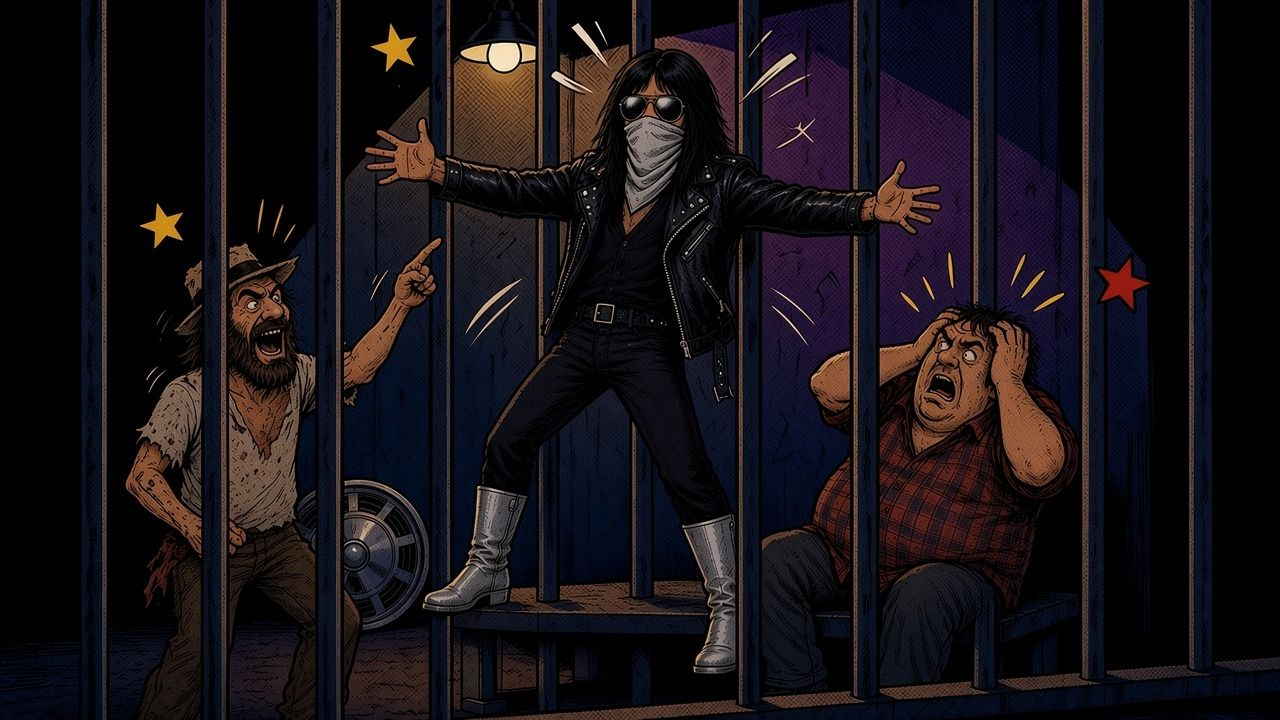
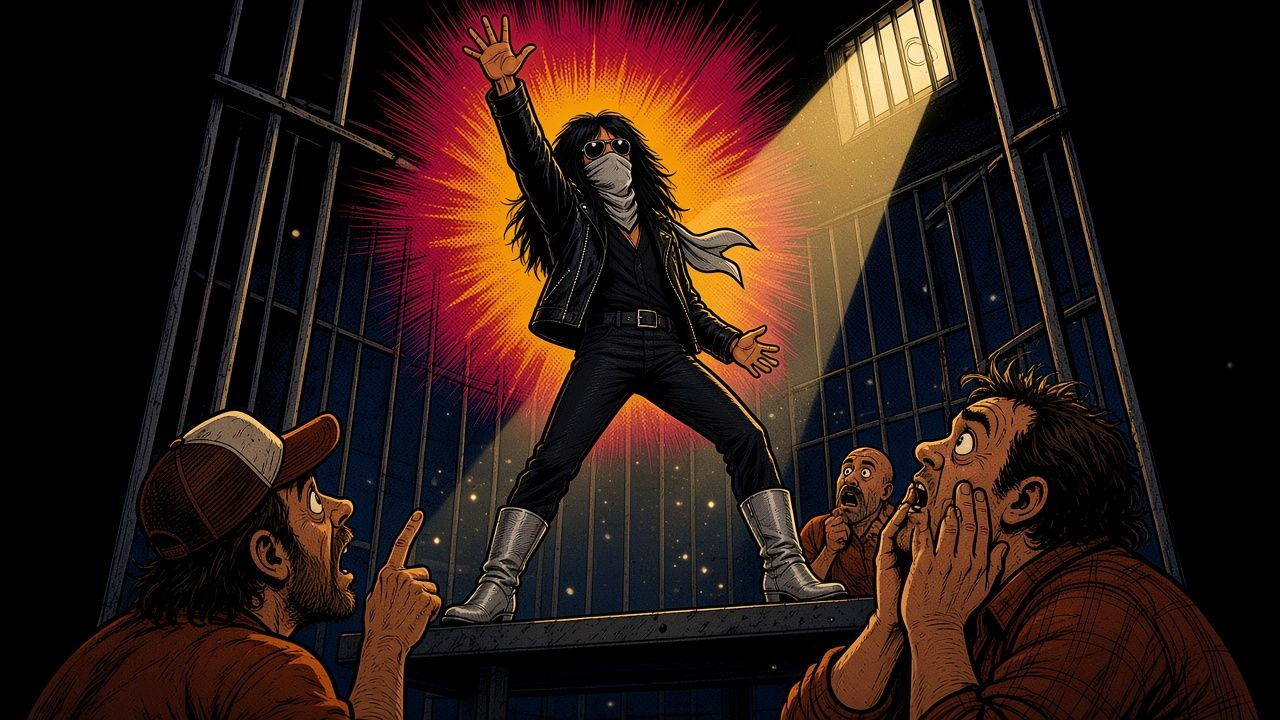
Issue #2 image 14: showstopper cell scene (rocker centre-stage in a spotlight, bars as frame, awed cellmates), two short bubbles + one mini caption, TMZ quote moved to the end page, slow zoom-in, mobile bubbles stacked right

diff --git a/preview-wy4u7thzbj5o/delorean/story.js b/preview-wy4u7thzbj5o/delorean/story.js
@@ -2,7 +2,7 @@
    Panel: img, focus (portrait crop x), kb (Ken Burns: in|out|l|r|up|dn), spread (full-bleed big moment), buzz (vibration ms on arrival).
    Bits: cap (narration), say (invented comic dialogue, no name), quote (real, attributed), sfx. acev:true = "Ace's version" tag.
    pos: tl tr bl br tc bc. sfx x/y (landscape) and mx/my (portrait) in % of panel.
-   kb: in out l r up dn pan (left-to-right sweep) zoomout (slow pull-back from zx/zy; mzx = portrait origin x) panout (pan left-to-right while zooming out). */
+   kb: in out l r up dn pan (left-to-right sweep) zoomout (slow pull-back from zx/zy; mzx = portrait origin x) panout (pan left-to-right while zooming out). mtop: "right" stacks top bits on the right on portrait screens. */
 const STORY = {
   panels: [
     { img: "d01-open", focus: "62%", kb: "in", alt: "A sunny downtown street corner in 1983. A stainless-steel DeLorean with its gull-wing doors up waits at the curb as a masked rocker in a leather jacket strides toward it, twirling his keys.",
@@ -49,10 +49,9 @@ const STORY = {
               {t: "cap", pos: "tl", text: "He steps outside. The police are waiting."},
               {t: "say", pos: "tr", tail: "l", shout: true, text: "GET DOWN ON THE GROUND! NOW!"},
               {t: "cap", pos: "br", acev: true, small: true, text: "A deli phone booth, and “like 15 cops with their guns drawn.”"} ] },
-    { img: "d14-cell", focus: "50%", kb: "r", alt: "Night in a holding cell: the masked rocker stands on the metal bench with his arms spread wide like he is on stage, while two scruffy drunk cellmates gawk at him, one pointing with his jaw dropped, the other clutching his head in disbelief.",
-      bits: [ {t: "say", pos: "tl", tail: "b", text: "Hey… wait a minute… you’re ACE!"},
-              {t: "say", pos: "tr", tail: "b", text: "No way, man! In OUR cell?!"},
-              {t: "cap", pos: "bl", text: "Charges: drunken driving, reckless driving, leaving the scene. On Monday he posts $500 bail."},
-              {t: "quote", pos: "br", text: "Had this been twenty-five years later, the fallout would have been much worse: mug shot on TMZ.com…", who: "Ace Frehley, No Regrets (2011)"} ] }
+    { img: "d14-cell", focus: "60%", kb: "in", mtop: "right", alt: "Low angle inside a dark holding cell framed by bars: the masked rocker stands centre-stage on the steel bench like a rock star, one arm thrown up, lit by a single spotlight beam from the barred window and a pop-art starburst. Two scruffy drunk cellmates in the foreground gaze up in awe, one pointing, one clutching his cheeks, while a third inmate peeks from the next cell.",
+      bits: [ {t: "say", pos: "tl", tail: "l", text: "Hey… you’re ACE!"},
+              {t: "say", pos: "tr", tail: "r", text: "In OUR cell?!"},
+              {t: "cap", pos: "bc", mini: true, text: "Locked up till Monday. Bail: $500."} ] }
   ]
 };

diff --git a/preview-wy4u7thzbj5o/delorean/index.html b/preview-wy4u7thzbj5o/delorean/index.html
@@ -63,6 +63,7 @@
             <li>August 1983: fined <b>$600</b>, license suspended for six months, and a one-year conditional discharge with counselling.</li>
           </ul>
           <figure class="qbub"><blockquote>“My license was revoked, I had to pay a large fine… The other consequence was a court-ordered two-week stint in a hospital detox unit, and some mandatory AA meetings.”</blockquote><figcaption>Ace Frehley, No Regrets (2011)</figcaption></figure>
+          <figure class="qbub"><blockquote>“Had this been twenty-five years later, the fallout would have been much worse: mug shot on TMZ.com…”</blockquote><figcaption>Ace Frehley, No Regrets (2011)</figcaption></figure>
         </div>
         <div class="after acev-box">
           <span class="tag red">Ace’s version</span>

diff --git a/preview-wy4u7thzbj5o/delorean/reader.js b/preview-wy4u7thzbj5o/delorean/reader.js
@@ -16,7 +16,7 @@ const VT = '<span class="vt">Ace’s version</span>';
 /* build panel pages */
 STORY.panels.forEach((p, i) => {
   const s = document.createElement('section');
-  s.className = 'page panel-page' + (p.spread ? ' spread' : '') + (p.rattle ? ' rattle' : '') + (['pan', 'zoomout', 'panout'].includes(p.kb) ? ' ' + p.kb : '');
+  s.className = 'page panel-page' + (p.spread ? ' spread' : '') + (p.rattle ? ' rattle' : '') + (['pan', 'zoomout', 'panout'].includes(p.kb) ? ' ' + p.kb : '') + (p.mtop === 'right' ? ' mtop-r' : '');
   s.setAttribute('aria-label', `Panel ${i + 1} of ${STORY.panels.length}`);
   if (p.buzz) s.dataset.buzz = p.buzz;
   let d = 0.65;                                                  // lettering starts after the art has landed

diff --git a/preview-wy4u7thzbj5o/delorean/reader.css b/preview-wy4u7thzbj5o/delorean/reader.css
@@ -201,3 +201,6 @@ body.dark .dots button{border-color:#f4ecd6}body.dark .dots button.on{background
 @media (orientation:portrait){.cap.mini{font-size:clamp(10px,3.1cqw,14px);max-width:56%}}
 @media (orientation:portrait) and (prefers-reduced-motion:no-preference){.page.on.panout .panel img{animation-name:kbpanout}}
 @keyframes kbpanout{from{object-position:0% 50%;transform:var(--k0)}to{object-position:62% 50%;transform:var(--k1)}}
+
+/* mtop-r: on portrait screens, stack the top lettering on the right to keep the left of the art clear */
+@media (orientation:portrait){.mtop-r .lt.top{align-items:flex-end}.mtop-r .lt.top .bit{align-self:flex-end}}
